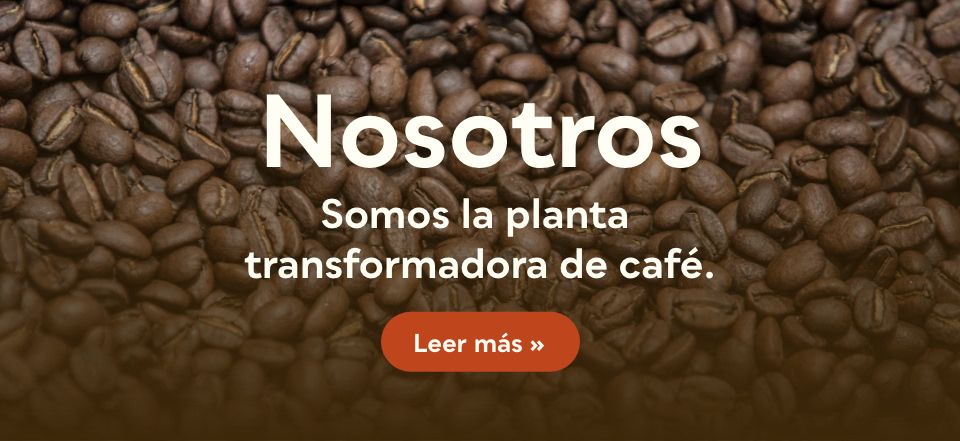
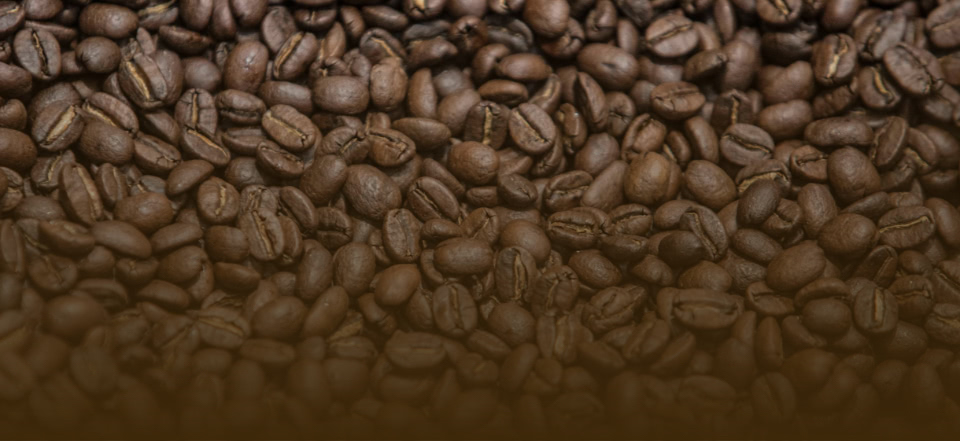
fondo de mapa y borde a misión

diff --git a/nosotros.html b/nosotros.html
@@ -27,8 +27,13 @@
 <div id="nosotros">
 <!--TODO: colocar divs dobles por sección.-->
 <!--    Uno para el fondo y otro para la retícula grid.-->
-<div>
+<div style="position:relative;">
     <header>
+        <div>
+        <figure>
+            <img style="position:absolute; top:-60%" alt="" src="images/nosotros/mexico.svg">
+        </figure>
+    </div>
         <div class="grid-header container">
             <h1>Bats'il Maya: Nosotros</h1>
             <div class="nav-wrapper desktop">
@@ -101,9 +106,9 @@
             <p class="p-big">pertenece a la familia maya. Actualmente son el grupo indígena más numeroso en Chiapas, 34% de los habitantes del estado piensan la vida en tseltal.</p><br>
             <p>Los tseltales se definen a sí mismos como los “Bats’il Winiquetic”, los hombres verdaderos, o bien “Pas C’altic Winiquetic”, los hombres que hacen milpa ya que la vida comunitaria y familiar está organizada alrededor de la siembra del maíz.</p>
         </article>
-        <figure class="cult-img2"><img alt="" src="images/"></figure>
+        <figure class="cult-img2"><img alt="" src="images/nosotros/corazon_tseltal_batsil_maya.jpg"></figure>
         <article class="cul-art2 light-bg wrapper-text">
-            <h3>Add title here</h3>
+            <h3>Corazón Tseltal</h3>
             <p>La manera de ser de los tseltales ha sido determinada por el lugar histórico que configuró sus formas de resistencia y sobrevivencia.</p>
             <p>Al igual que muchos de los pueblos indígenas de México, y del mundo, las comunidades tseltales han sido históricamente sometidas a estructuras de dominación y empobrecimiento por lo que, a lo largo de los años, han tenido que organizarse para resistir y recuperar la propiedad y destino de su territorio.</p>
         </article>
@@ -117,8 +122,8 @@
     </div>
 </section>
 <section class="dark-bg">
-    <div class="container xtraarticles">
-        <article>
+    <div class="container xtraarticles ">
+        <article class="mision-vision">
             <h3 class="yellow">Misión</h3>
             <p>Tener un <strong>producto de calidad</strong> que se pueda poner al alcance de todos aquellos que apuestan por un <strong>consumo responsable</strong> y con conciencia de apoyo por una <strong>economía más justa y solidaria.</strong></p>
         </article>

diff --git a/style.css b/style.css
@@ -572,10 +572,12 @@ input[name="teléfono"] {
 
 /* —————— AQUÍ EMPIEZAN ESTILOS DE NOSOTROS—————— */
 #nosotros header{
-    background: url(images/fade/header_fade_blanco_batsil_maya.png) 0 100% / contain repeat-x,
-    url(images/nosotros/header_nosotros_somos_la_planta_transformadora_de_café_batsil_maya.jpg) 70% 0 / cover no-repeat;
+    background: url(images/nosotros/header_nosotros_somos_la_planta_transformadora_de_café_batsil_maya.jpg) 70% 0 / cover no-repeat;
 }
-
+#nosotros .mision-vision{
+    border-bottom: 2px solid var(--yellow);
+    padding-bottom: 9%;
+}
 #nosotros .bnosotros{
     background: url(images/botones/boton_notostros_somos_la_planta_transformadora_de_cafe_batsil_maya.jpg) 70% 0 / cover no-repeat;
 }
@@ -583,6 +585,7 @@ input[name="teléfono"] {
 #nosotros .bproductos{
     background: url(images/botones/boton_productos_cafe_tseltal_miel_organica_jabones_artesanales_batsil_maya.jpg) 70% 0 / cover no-repeat;
 }
+
 
 /* —————— AQUÍ EMPIEZAN ESTILOS DE NUESTRO CAFÉ—————— */
 #nuestrocafe header{
